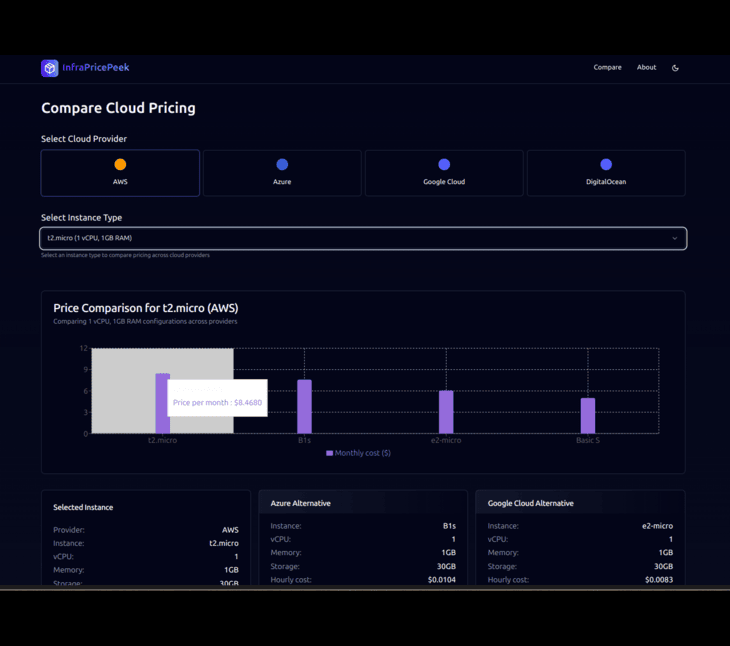
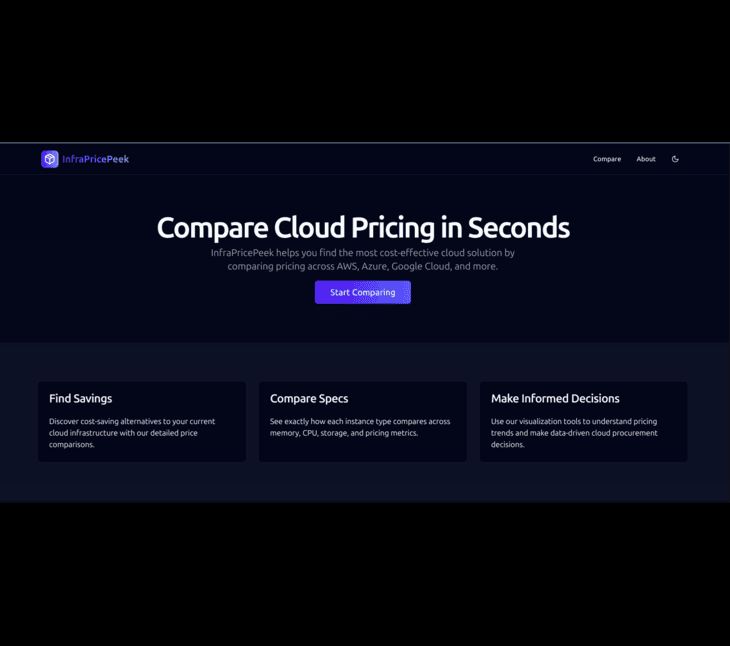
feat: add Three.js background component and update dependencies

diff --git a/src/components/ui/ThreeBackground.tsx b/src/components/ui/ThreeBackground.tsx
@@ -1,0 +1,179 @@
+// src/components/ThreeBackground.tsx
+import { useEffect, useRef } from 'react';
+import * as THREE from 'three';
+import { gsap } from 'gsap';
+
+interface ThreeBackgroundProps {
+  isDarkMode: boolean;
+}
+
+export default function ThreeBackground({ isDarkMode }: ThreeBackgroundProps) {
+  const containerRef = useRef<HTMLDivElement | null>(null);
+  const sceneRef = useRef<THREE.Scene | null>(null);
+  const cameraRef = useRef<THREE.PerspectiveCamera | null>(null);
+  const rendererRef = useRef<THREE.WebGLRenderer | null>(null);
+  const particlesRef = useRef<THREE.Points | null>(null);
+  const frameId = useRef<number | null>(null);
+  const mouse = useRef<{ x: number; y: number }>({ x: 0, y: 0 });
+
+  useEffect(() => {
+    if (!containerRef.current) return;
+
+    // --- Scene, Camera & Renderer ---
+    const scene = new THREE.Scene();
+    sceneRef.current = scene;
+
+    const camera = new THREE.PerspectiveCamera(
+      75,
+      containerRef.current.clientWidth / containerRef.current.clientHeight,
+      0.1,
+      1000
+    );
+    camera.position.z = 30;
+    cameraRef.current = camera;
+
+    const renderer = new THREE.WebGLRenderer({ antialias: true, alpha: true });
+    renderer.setPixelRatio(Math.min(window.devicePixelRatio, 2));
+    renderer.setSize(
+      containerRef.current.clientWidth,
+      containerRef.current.clientHeight
+    );
+    containerRef.current.appendChild(renderer.domElement);
+    rendererRef.current = renderer;
+
+    // --- Create Round Sprite Texture ---
+    const size = 64;
+    const spriteCanvas = document.createElement('canvas');
+    spriteCanvas.width = spriteCanvas.height = size;
+    const ctx = spriteCanvas.getContext('2d')!;
+    ctx.fillStyle = '#ffffff';
+    ctx.beginPath();
+    ctx.arc(size / 2, size / 2, size / 2, 0, Math.PI * 2);
+    ctx.fill();
+    const circleTexture = new THREE.CanvasTexture(spriteCanvas);
+
+    // --- Particles Setup ---
+    const geometry = new THREE.BufferGeometry();
+    const count = 600; // fewer particles
+    const positions = new Float32Array(count * 3);
+    for (let i = 0; i < positions.length; i++) {
+      positions[i] = (Math.random() - 0.5) * 50;
+    }
+    geometry.setAttribute('position', new THREE.BufferAttribute(positions, 3));
+
+    const material = new THREE.PointsMaterial({
+      size: 0.25,
+      map: circleTexture,
+      alphaTest: 0.5,
+      color: isDarkMode ? 0xffffff : 0x000000,
+      opacity: isDarkMode ? 0.8 : 0.6,
+      transparent: true,
+      blending: THREE.AdditiveBlending,
+      sizeAttenuation: true,
+    });
+
+    const particles = new THREE.Points(geometry, material);
+    scene.add(particles);
+    particlesRef.current = particles;
+
+    // one continuous spin on mount
+    gsap.to(particles.rotation, {
+      y: Math.PI * 2,
+      duration: 80,
+      ease: 'none',
+      repeat: -1,
+    });
+
+    // --- Resize Handling ---
+    const handleResize = () => {
+      if (!containerRef.current || !cameraRef.current || !rendererRef.current) return;
+      const w = containerRef.current.clientWidth;
+      const h = containerRef.current.clientHeight;
+      cameraRef.current.aspect = w / h;
+      cameraRef.current.updateProjectionMatrix();
+      rendererRef.current.setSize(w, h);
+    };
+    window.addEventListener('resize', handleResize);
+    handleResize(); // initial sizing
+
+    // --- Mouse Move (throttled) ---
+    let lastTime = 0;
+    const handleMouse = (e: MouseEvent) => {
+      const now = performance.now();
+      if (now - lastTime < 16) return;
+      lastTime = now;
+      mouse.current.x = (e.clientX / window.innerWidth) * 2 - 1;
+      mouse.current.y = -(e.clientY / window.innerHeight) * 2 + 1;
+    };
+    window.addEventListener('mousemove', handleMouse);
+
+    // --- Animation Loop ---
+    const animate = () => {
+      if (
+        !particlesRef.current ||
+        !rendererRef.current ||
+        !sceneRef.current ||
+        !cameraRef.current
+      ) {
+        return;
+      }
+
+      // auto‑spin
+      particlesRef.current.rotation.x += 0.0003;
+      particlesRef.current.rotation.y += 0.0005;
+
+      // micro‐drift: jiggle each vertex slightly
+      const posAttr = particlesRef.current.geometry.attributes
+        .position as THREE.BufferAttribute;
+      const arr = posAttr.array as Float32Array;
+      for (let i = 0; i < arr.length; i += 3) {
+        arr[i] += (Math.random() - 0.5) * 0.0005;
+        arr[i + 1] += (Math.random() - 0.5) * 0.0005;
+        arr[i + 2] += (Math.random() - 0.5) * 0.0005;
+      }
+      posAttr.needsUpdate = true;
+
+      // ease towards mouse rotation target
+      particlesRef.current.rotation.x +=
+        (mouse.current.y * 0.5 - particlesRef.current.rotation.x) * 0.05;
+      particlesRef.current.rotation.y +=
+        (mouse.current.x * 0.5 - particlesRef.current.rotation.y) * 0.05;
+
+      rendererRef.current.render(sceneRef.current, cameraRef.current);
+      frameId.current = requestAnimationFrame(animate);
+    };
+    animate();
+
+    // --- Cleanup on Unmount ---
+    return () => {
+      window.removeEventListener('resize', handleResize);
+      window.removeEventListener('mousemove', handleMouse);
+      cancelAnimationFrame(frameId.current!);
+
+      if (particlesRef.current) {
+        particlesRef.current.geometry.dispose();
+        (particlesRef.current.material as THREE.Material).dispose();
+        scene.remove(particlesRef.current);
+      }
+      renderer.dispose();
+      containerRef.current?.removeChild(renderer.domElement);
+    };
+  }, []); // mount only
+
+  // Update color & opacity when theme toggles
+  useEffect(() => {
+    if (particlesRef.current) {
+      const mat = particlesRef.current.material as THREE.PointsMaterial;
+      mat.color.set(isDarkMode ? 0xffffff : 0x000000);
+      mat.opacity = isDarkMode ? 0.8 : 0.6;
+    }
+  }, [isDarkMode]);
+
+  return (
+    <div
+      ref={containerRef}
+      className="three-bg-canvas fixed inset-0 pointer-events-none"
+      aria-hidden="true"
+    />
+  );
+}

diff --git a/src/index.css b/src/index.css
@@ -8,10 +8,13 @@
 
 @custom-variant dark (&:where([data-theme=dark], [data-theme=dark] *));
 
+
+
 /* Define theme variables on :root for default (light) theme */
 :root {
   --text-primary: #333333; 
-  --bg-primary: #dbd5d5;  /* Light mode background */  --radius: 0.625rem;  --background: oklch(1 0 0);  --foreground: oklch(0.145 0 0);  --card: oklch(1 0 0);  --card-foreground: oklch(0.145 0 0);  --popover: oklch(1 0 0);  --popover-foreground: oklch(0.145 0 0);  --primary: oklch(0.205 0 0);  --primary-foreground: oklch(0.985 0 0);  --secondary: oklch(0.97 0 0);  --secondary-foreground: oklch(0.205 0 0);  --muted: oklch(0.97 0 0);  --muted-foreground: oklch(0.556 0 0);  --accent: oklch(0.97 0 0);  --accent-foreground: oklch(0.205 0 0);  --destructive: oklch(0.577 0.245 27.325);  --border: oklch(0.922 0 0);  --input: oklch(0.922 0 0);  --ring: oklch(0.708 0 0);  --chart-1: oklch(0.646 0.222 41.116);  --chart-2: oklch(0.6 0.118 184.704);  --chart-3: oklch(0.398 0.07 227.392);  --chart-4: oklch(0.828 0.189 84.429);  --chart-5: oklch(0.769 0.188 70.08);  --sidebar: oklch(0.985 0 0);  --sidebar-foreground: oklch(0.145 0 0);  --sidebar-primary: oklch(0.205 0 0);  --sidebar-primary-foreground: oklch(0.985 0 0);  --sidebar-accent: oklch(0.97 0 0);  --sidebar-accent-foreground: oklch(0.205 0 0);  --sidebar-border: oklch(0.922 0 0);  --sidebar-ring: oklch(0.708 0 0);
+  --bg-primary: #dbd5d5;  /* Light mode background */  --radius: 0.625rem;
+    --background: oklch(1 0 0);  --foreground: oklch(0.145 0 0);  --card: oklch(1 0 0);  --card-foreground: oklch(0.145 0 0);  --popover: oklch(1 0 0);  --popover-foreground: oklch(0.145 0 0);  --primary: oklch(0.205 0 0);  --primary-foreground: oklch(0.985 0 0);  --secondary: oklch(0.97 0 0);  --secondary-foreground: oklch(0.205 0 0);  --muted: oklch(0.97 0 0);  --muted-foreground: oklch(0.556 0 0);  --accent: oklch(0.97 0 0);  --accent-foreground: oklch(0.205 0 0);  --destructive: oklch(0.577 0.245 27.325);  --border: oklch(0.922 0 0);  --input: oklch(0.922 0 0);  --ring: oklch(0.708 0 0);  --chart-1: oklch(0.646 0.222 41.116);  --chart-2: oklch(0.6 0.118 184.704);  --chart-3: oklch(0.398 0.07 227.392);  --chart-4: oklch(0.828 0.189 84.429);  --chart-5: oklch(0.769 0.188 70.08);  --sidebar: oklch(0.985 0 0);  --sidebar-foreground: oklch(0.145 0 0);  --sidebar-primary: oklch(0.205 0 0);  --sidebar-primary-foreground: oklch(0.985 0 0);  --sidebar-accent: oklch(0.97 0 0);  --sidebar-accent-foreground: oklch(0.205 0 0);  --sidebar-border: oklch(0.922 0 0);  --sidebar-ring: oklch(0.708 0 0);
 }
 
 /* Dark theme variables */
@@ -127,4 +130,16 @@ body {
   body {
     @apply bg-background text-foreground;
   }
+}
+
+
+/* only affect the canvas inside our three-bg-canvas container */
+.three-bg-canvas canvas {
+  position: absolute;    /* fill its parent */
+  top: 0;
+  left: 0;
+  width: 100%;
+  height: 100%;
+  z-index: 0;            /* above the html/body/bg, below content */
+  pointer-events: none;
 }

diff --git a/src/App.tsx b/src/App.tsx
@@ -11,7 +11,8 @@ import {
   CarouselItem,
   CarouselNext,
   CarouselPrevious,
-} from "@/components/ui/carousel"
+} from "@/components/ui/carousel";
+import ThreeBackground from '@/components/ui/ThreeBackground.tsx';
 
 const imageUrls = [
   image1,
@@ -21,7 +22,7 @@ const imageUrls = [
 
 const links = [
   'https://tracemind.canadacentral.cloudapp.azure.com/login',
-  'https://infra-price-peek.lovable.app/',
+  'https://infra-price-peek.onrender.com/',
   // 'https://example3.com',
 ];
 
@@ -54,6 +55,11 @@ export default function App() {
 
   return (
     <div className="min-h-screen flex flex-col justify-center items-center relative">
+
+      {/* Three.js background */}
+      <ThreeBackground isDarkMode={isDark} />
+
+
       {/* Dark mode toggle button */}
       <DarkThemeToggle
         onClick={toggleDarkMode}
@@ -79,7 +85,7 @@ export default function App() {
         <h1 className="text-4xl font-bold mb-4">
           Welcome to My Portfolio
         </h1>
-        <h2 className="mt-16 text-left text-2xl font-semibold whitespace-pre-line w-full">
+        <h2 className="mt-6 text-left text-2xl font-semibold whitespace-pre-line w-full">
           <Typewriter
             words={[
               `Hi, I'm Vasant, a Software Engineer. This portfolio showcases my current projects, and I'll try to keep it updated. \nFor detailed information on all my projects, please check out my GitHub. \nClick on the project cards below to see live deployed apps, demo videos, and more! Feel free to explore and connect with me!`
@@ -87,12 +93,12 @@ export default function App() {
             loop={1}
             cursor={true}
             cursorStyle="|"
-            typeSpeed={40}
+            typeSpeed={20}
           />
         </h2>
       </div> {/* Heading and subheading container closing tag */}
       {/* Carousel for images */}
-      <div className="mt-45 w-full flex justify-center">
+      <div className="mt-55 w-full flex justify-center">
       <Carousel className="w-full max-w-4xl ">
       <CarouselContent>
         {imageUrls.map((src, index) => (
@@ -122,6 +128,24 @@ export default function App() {
       <CarouselNext />
     </Carousel>
       </div> {/* Carousel for images closing tag */}
+
+
+
+      <div className="mt-8 flex justify-center">
+  <a
+    href={links[0]} // Change to any featured project link
+    target="_blank"
+    rel="noopener noreferrer"
+    className="inline-block"
+  >
+    <div className="rounded-xl bg-gradient-to-r from-blue-600 to-purple-600 text-white px-6 py-4 shadow-xl animate-bounce border border-white/30 transition-transform transform hover:scale-105 hover:shadow-blue-500/50">
+      <p className="text-lg font-semibold text-center animate-pulse">
+        🚀 Featured Project
+      </p>
+    </div>
+  </a>
+</div>
+
     </div>
   );
 }

diff --git a/index.html b/index.html
@@ -2,7 +2,7 @@
 <html data-theme="dark" lang="en">
   <head>
     <meta charset="UTF-8" />
-    <link rel="icon" type="image/png" href="/assets/favicon.png" />
+    <link rel="icon" type="image/png" href="src/assets/favicon.png" />
     <meta name="viewport" content="width=device-width, initial-scale=1.0" />
     <title>portfolio</title>
   </head>
